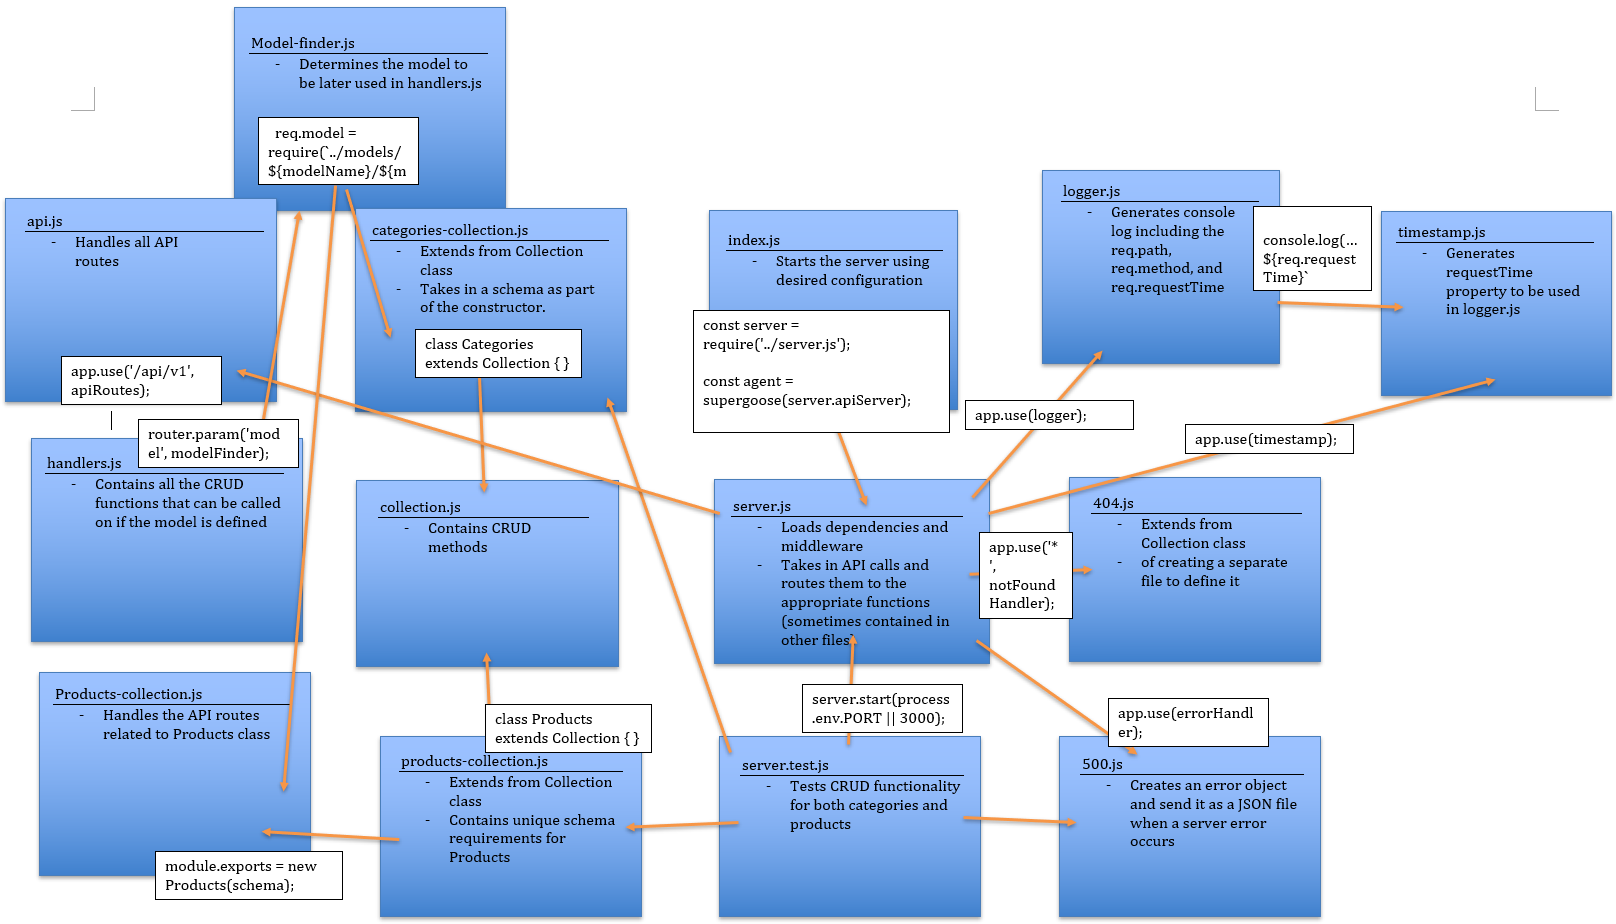
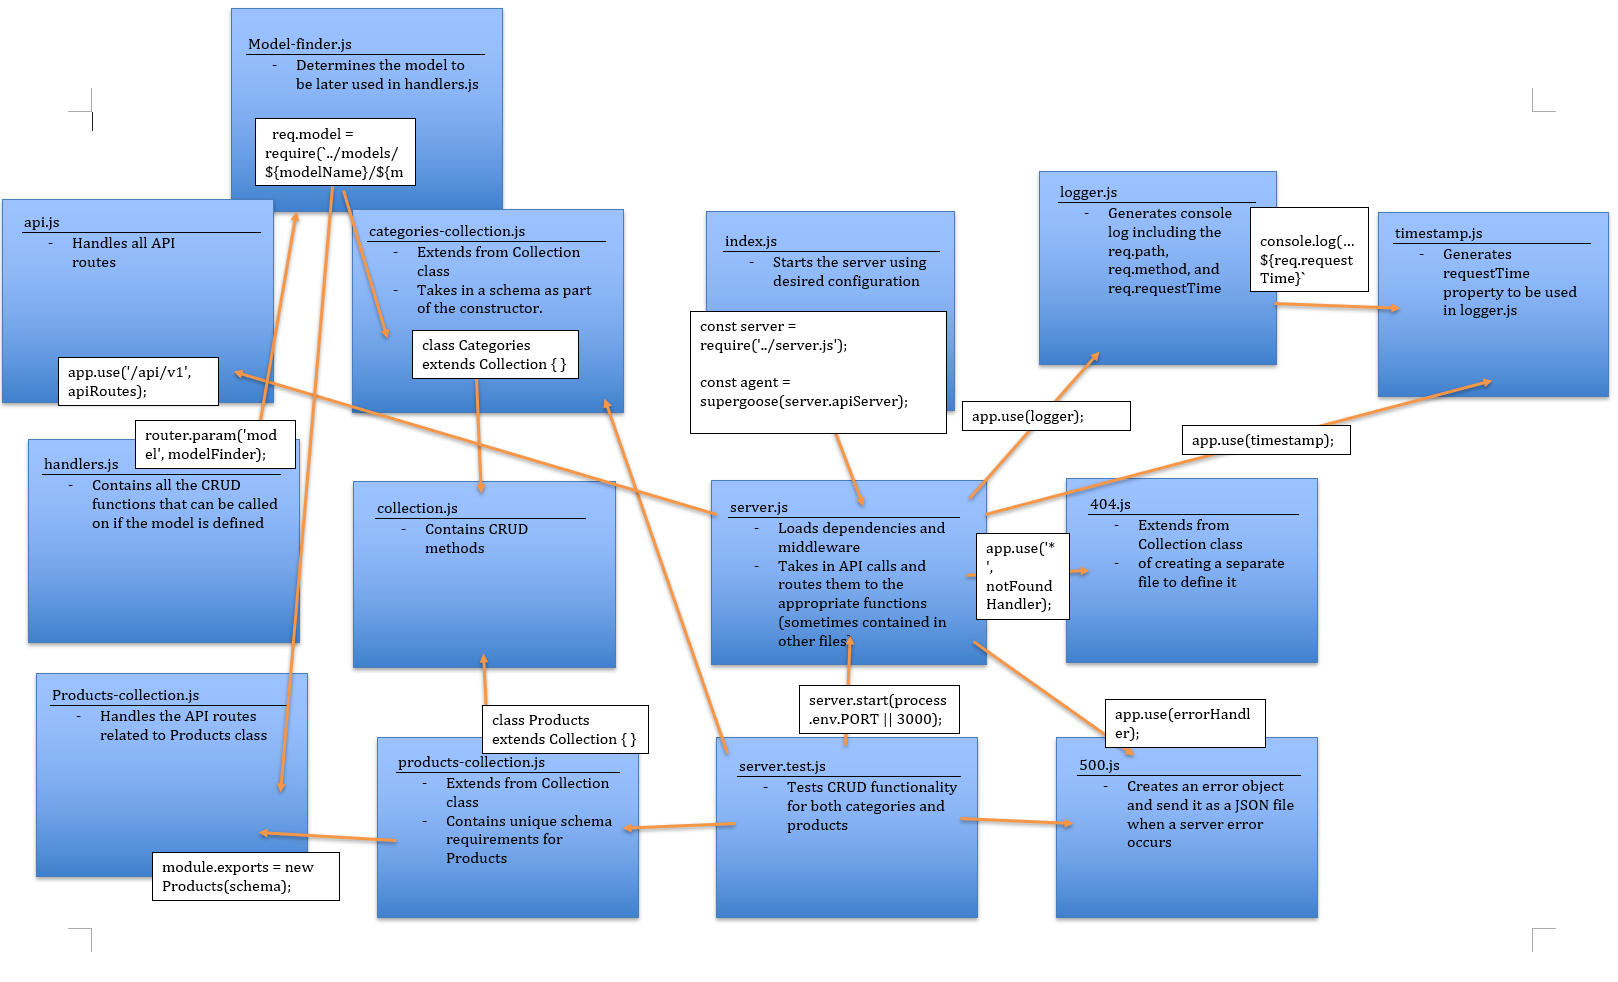
fixed UML and some file spacing

diff --git a/lib/models/validator.js b/lib/models/validator.js
@@ -50,15 +50,27 @@ class Validator {
     for (let fieldName in schema) {
       let field = schema[fieldName];
       let required = field.required ? this.isTruthy(input[fieldName]) : true;
-      let type = this.isTruthy(input[fieldName]) && field.type ? this.isCorrectType(input[fieldName], field.type) : true;
-      let hasApprovedArr = field.approvedVals ? field.approvedVals.includes(input[fieldName]) : true;
+      let type =
+        this.isTruthy(input[fieldName]) && field.type
+          ? this.isCorrectType(input[fieldName], field.type)
+          : true;
+      let hasApprovedArr = field.approvedVals
+        ? field.approvedVals.includes(input[fieldName])
+        : true;
 
       if (field.type === 'object') {
         if (Object.keys(input[fieldName]).length === 0) return false;
 
         for (let subField in field) {
-          let subReq = field[subField].required ? this.isTruthy(subField) : true;
-          let subType = field[subField].type ? this.isCorrectType(input[fieldName][subField], field[subField].type) : true;
+          let subReq = field[subField].required
+            ? this.isTruthy(subField)
+            : true;
+          let subType = field[subField].type
+            ? this.isCorrectType(
+                input[fieldName][subField],
+                field[subField].type,
+              )
+            : true;
           if (!(subReq && subType)) return false;
         }
       }

diff --git a/lib/models/products/products-schema.js b/lib/models/products/products-schema.js
@@ -1,10 +1,10 @@
 const mongoose = require('mongoose');
 
 const products = mongoose.Schema({
-    category_id: { type: 'string', required: true },
-    price: { type: 'number', required: true },
-    weight: { type: 'number' },
-    quantity_in_stock: { type: 'number', required: true },
+  category_id: { type: 'string', required: true },
+  price: { type: 'number', required: true },
+  weight: { type: 'number' },
+  quantity_in_stock: { type: 'number', required: true },
 });
 
 module.exports = mongoose.model('products', products);

diff --git a/lib/models/categories/categories-schema.js b/lib/models/categories/categories-schema.js
@@ -1,9 +1,9 @@
 const mongoose = require('mongoose');
 
 const categories = mongoose.Schema({
-    name: { type: 'string', required: true },
-    display_name: { type: 'string', required: true },
-    description: { type: 'string' },
+  name: { type: 'string', required: true },
+  display_name: { type: 'string', required: true },
+  description: { type: 'string' },
 });
 
 module.exports = mongoose.model('categories', categories);

diff --git a/lib/models/categories/categories-collection.js b/lib/models/categories/categories-collection.js
@@ -3,6 +3,6 @@
 const Collection = require('../collection.js');
 const schema = require('./categories-schema.js');
 
-class Categories extends Collection { }
+class Categories extends Collection {}
 
 module.exports = new Categories(schema);

diff --git a/lib/models/products/products-collection.js b/lib/models/products/products-collection.js
@@ -3,6 +3,6 @@
 const Collection = require('../collection.js');
 const schema = require('./products-schema.js');
 
-class Products extends Collection { }
+class Products extends Collection {}
 
 module.exports = new Products(schema);
